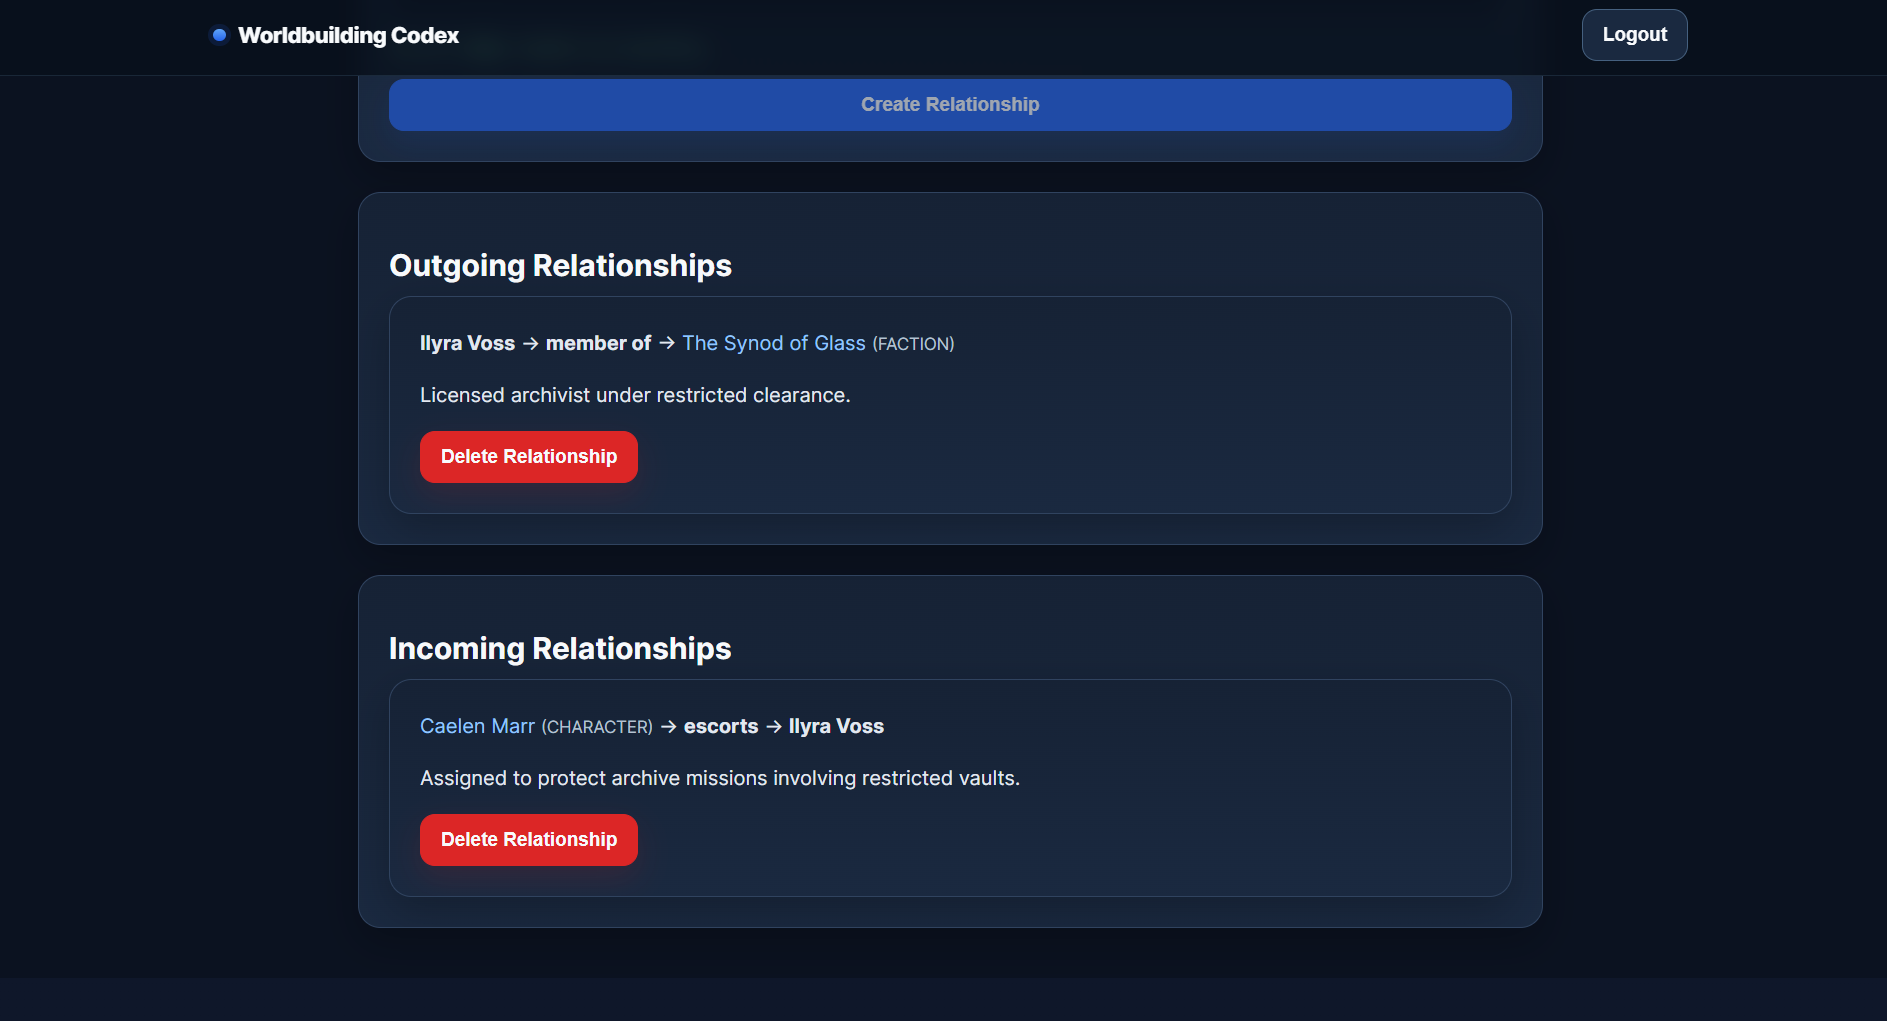
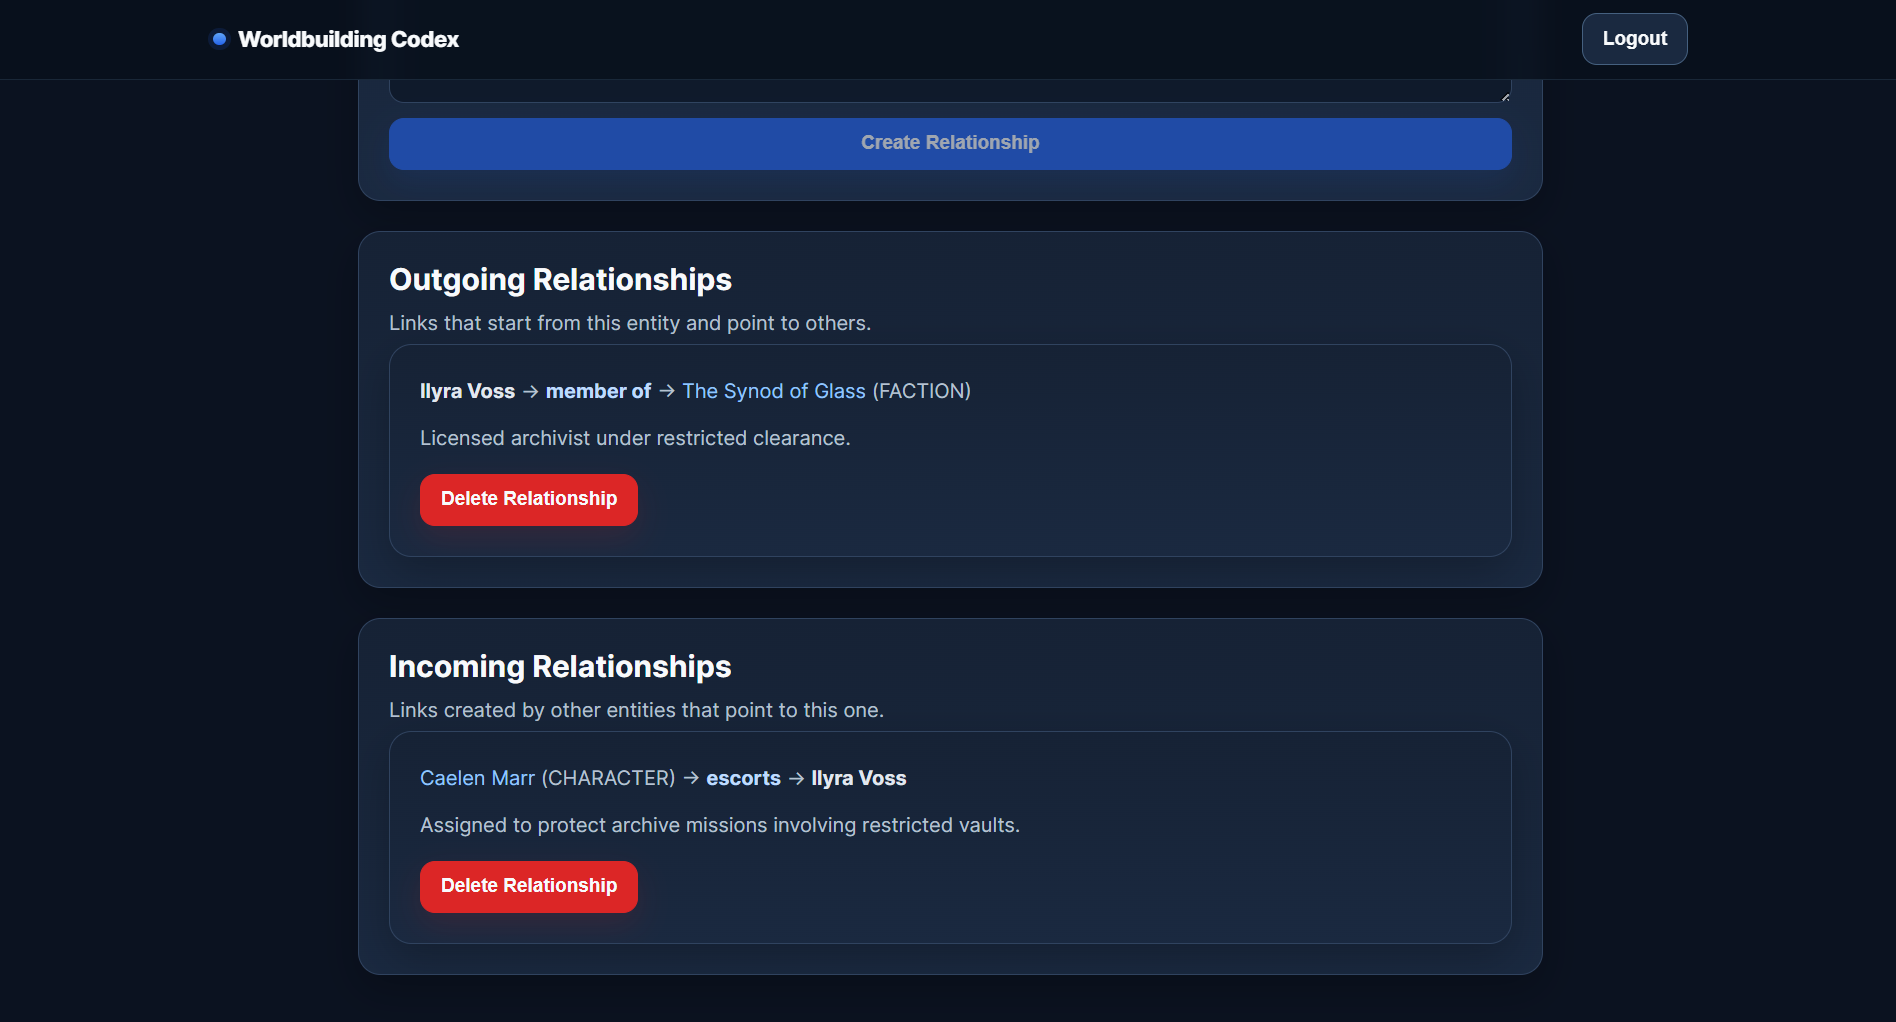
v1.0.0 Full Release

Changed region(s): [[0.0922, 0.0, 0.8914, 0.9716]]

diff --git a/README.md b/README.md
@@ -1,11 +1,20 @@
-# Worldbuilding Codex
+<h1 align="center">Worldbuilding Codex</h1>
 
-A full-stack lore management app for building fictional worlds through structured entities, relationships, and timeline events.
+<p align="center">
+  A full-stack lore management app for building fictional worlds through structured entities, relationships, and timeline events.
+</p>
 
-![Status](https://img.shields.io/badge/Status-In%20Active%20Development-2563eb?style=for-the-badge)
-![Frontend](https://img.shields.io/badge/Frontend-React%20%2B%20TypeScript-0f172a?style=for-the-badge)
-![Backend](https://img.shields.io/badge/Backend-Express%20%2B%20TypeScript-0f172a?style=for-the-badge)
-![Database](https://img.shields.io/badge/Database-PostgreSQL%20%2B%20Prisma-0f172a?style=for-the-badge)
+<p align="center">
+  <img src="https://img.shields.io/badge/Status-v1.0%20Stable%20Release-22c55e?style=for-the-badge" alt="Status: v1.0 Stable Release" />
+  <img src="https://img.shields.io/badge/Frontend-React%20%2B%20TypeScript-0f172a?style=for-the-badge&logo=react&logoColor=61dafb" alt="Frontend: React + TypeScript" />
+  <img src="https://img.shields.io/badge/Backend-Express%20%2B%20TypeScript-0f172a?style=for-the-badge&logo=express&logoColor=ffffff" alt="Backend: Express + TypeScript" />
+</p>
+
+<p align="center">
+  <img src="https://img.shields.io/badge/Database-PostgreSQL%20%2B%20Prisma-0f172a?style=for-the-badge&logo=postgresql&logoColor=60a5fa" alt="Database: PostgreSQL + Prisma" />
+  <img src="https://img.shields.io/badge/Deploy-Vercel%20%2B%20Render%20%2B%20Neon-0f172a?style=for-the-badge&logo=vercel&logoColor=ffffff" alt="Deploy: Vercel + Render + Neon" />
+  <img src="https://img.shields.io/badge/Version-v1.0.0-2563eb?style=for-the-badge" alt="Version: v1.0.0" />
+</p>
 
 ---
 
@@ -82,10 +91,11 @@ Instead of storing lore in scattered text files or unstructured notes, the app m
 
 ---
 
-## Screenshots
+### Worlds Dashboard — Create World
+![Worlds Dashboard — Create World](docs/screenshots/worlds-dashboard-create.png)
 
-### Worlds Dashboard
-![Worlds Dashboard](docs/screenshots/worlds-dashboard.png)
+### Worlds Dashboard — Existing Worlds
+![Worlds Dashboard — Existing Worlds](docs/screenshots/worlds-dashboard-list.png)
 
 ### World Detail — Aurelith
 ![World Detail — Aurelith](docs/screenshots/world-detail-aurelith.png)
@@ -96,8 +106,8 @@ Instead of storing lore in scattered text files or unstructured notes, the app m
 ### Timeline — Aurelith
 ![Timeline — Aurelith](docs/screenshots/timeline-aurelith.png)
 
-### Relationships — Ilyra Voss
-![Relationships — Ilyra Voss](docs/screenshots/relationships-ilyra-voss.png)
+### Relationships — Aurelith
+![Relationships — Aurelith](docs/screenshots/relationships-ilyra-voss.png)
 
 ### Register
 ![Register](docs/screenshots/auth-register.png)
@@ -385,7 +395,7 @@ This uses `server/.env.prod` locally to apply migrations to the production datab
 
 ## Current Status
 
-Worldbuilding Codex is currently feature-complete for its core lore workflow.
+Worldbuilding Codex is currently in its first stable v1.0 release and is feature-complete for its core lore-management workflow.
 
 Implemented:
 
@@ -407,7 +417,27 @@ Current focus:
 
 ---
 
+## Known Limitations
+
+Worldbuilding Codex is stable for its core v1.0 workflow, but several areas are intentionally scoped for future releases.
+
+- Entity browsing is currently basic. Large worlds would benefit from search, filtering, sorting, and tag-based navigation.
+- Relationship data is currently shown in list/detail form. A visual graph view is planned for exploring connected entities more naturally.
+- Timeline functionality supports structured events and participants, but a dedicated full-page timeline explorer is planned.
+- Import/export support is not yet available, so worlds cannot currently be backed up or transferred through the UI.
+- Public read-only sharing is not yet implemented, so worlds are private to each authenticated user.
+- Dashboard analytics are not yet available for world-level summaries such as entity counts, relationship density, or timeline activity.
+- Collaboration features are not currently supported.
+
+---
+
 ## Roadmap / Future Improvements
+
+Worldbuilding Codex is currently stable for its core v1.0 lore-management workflow. Future development will focus on making large fictional worlds easier to browse, visualize, share, and preserve.
+
+See the full project roadmap here:
+
+**[View the Roadmap](./ROADMAP.md)**
 
 Planned improvements include:
 

diff --git a/CHANGELOG.md b/CHANGELOG.md
@@ -6,6 +6,40 @@ The format is inspired by *Keep a Changelog*, with concise milestone-based entri
 
 ---
 
+## [1.0.0] - Stable Portfolio Release (2026-04-27)
+
+### Added
+- Stable v1.0 release milestone for the core Worldbuilding Codex workflow
+- `ROADMAP.md` documenting planned post-v1.0 improvements and long-term feature direction
+- README roadmap reference for easier navigation to future development plans
+- README known limitations section clarifying intentionally deferred features
+- Updated README badge/header presentation for the v1.0 stable release
+- Refreshed README screenshot set reflecting the final v1.0 UI and accessibility updates
+- Accessibility improvements across auth, world, entity, event, and relationship workflows
+
+### Changed
+- Promoted Worldbuilding Codex from active pre-release development to a stable portfolio-ready release
+- Updated README status language to position the project as stable for its core lore-management workflow
+- Split the Worlds Dashboard screenshots into separate create-world and existing-worlds views for clearer presentation
+- Improved form accessibility with visible labels across login, register, world, entity, event, and relationship forms
+- Improved page and section structure with clearer semantic layout patterns
+- Improved relationship explorer markup with shared layout classes and more descriptive relationship actions
+- Improved status message semantics for success, error, info, and muted UI feedback
+
+### Fixed
+- Removed unused favicon reference
+- Confirmed custom route-not-found fallback behavior
+- Confirmed route refresh behavior works correctly on deployed Vercel routes
+- Confirmed hosted frontend, backend health check, authentication, protected routes, and core CRUD workflows work in production
+- Confirmed manual accessibility smoke tests pass for the main user flows
+
+### Notes
+- This release represents the first stable public version of Worldbuilding Codex.
+- The v1.0 release is focused on stability, presentation, accessibility, and demo readiness rather than new feature expansion.
+- Future releases will focus on entity search and filtering, richer timeline browsing, relationship visualization, import/export, public sharing, and dashboard analytics.
+
+---
+
 ## [0.4.1] - Live Deployment Stabilization (2026-04-27)
 
 ### Added
